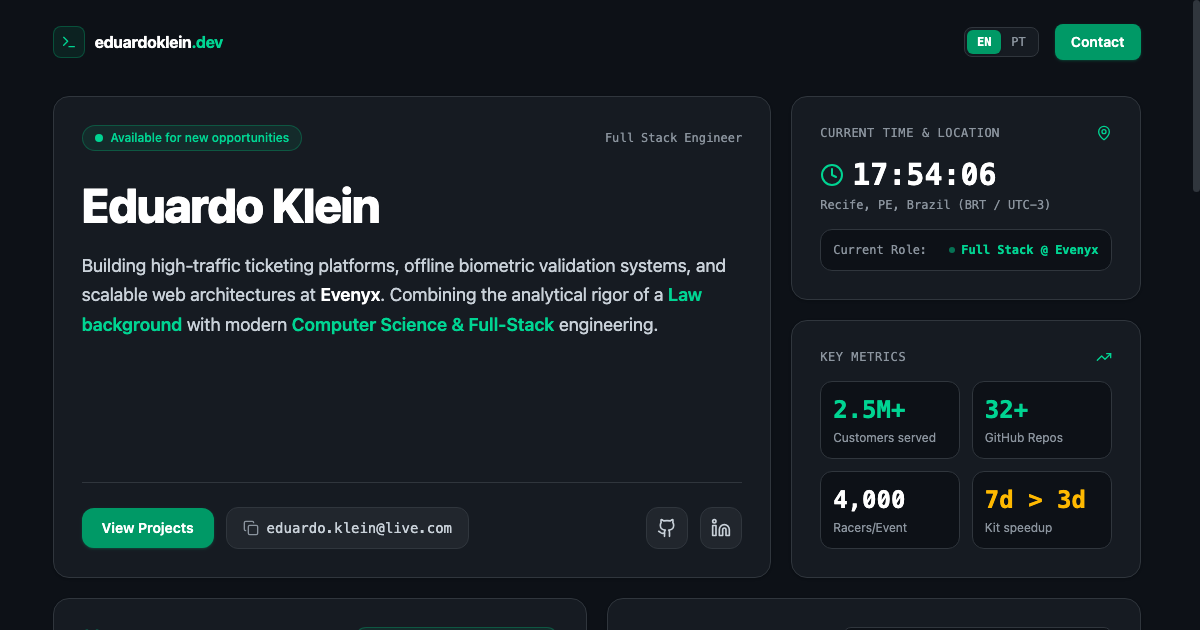
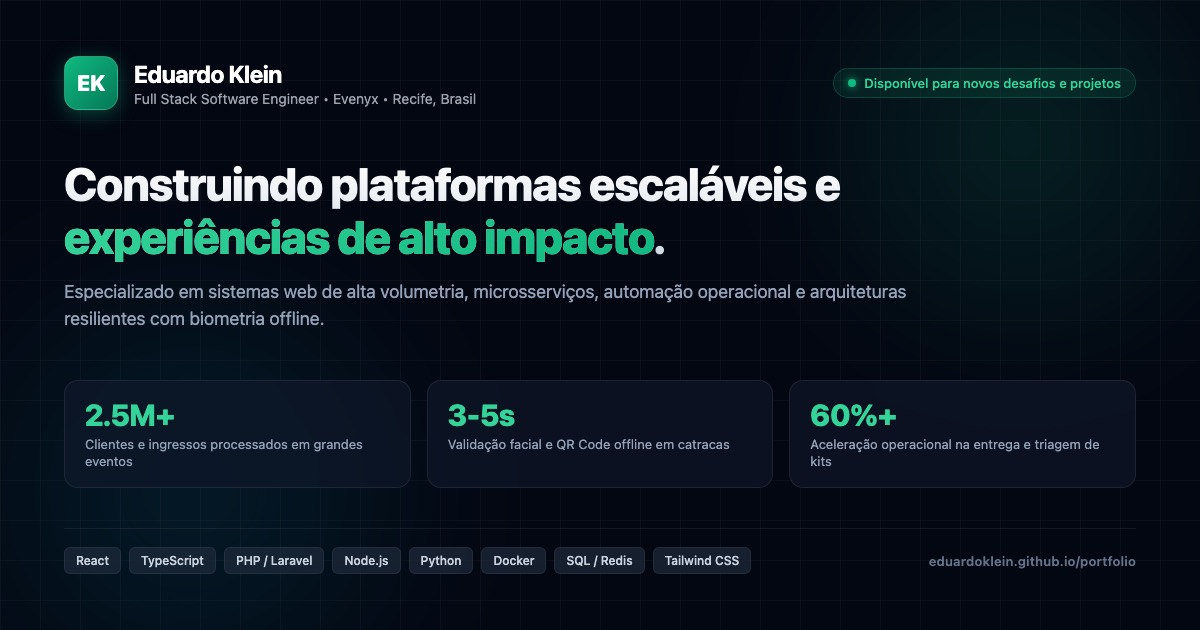
feat: novo card de preview 1200x630 (og:image) e bypass de cache

diff --git a/index.html b/index.html
@@ -2,31 +2,32 @@
 <html lang="en">
   <head>
     <meta charset="UTF-8" />
-    <link rel="icon" type="image/svg+xml" href="./favicon.svg?v=4" />
-    <link rel="icon" type="image/png" href="./favicon.png?v=4" />
-    <link rel="shortcut icon" href="./favicon.ico?v=4" />
-    <link rel="apple-touch-icon" href="./favicon.png?v=4" />
+    <link rel="icon" type="image/svg+xml" href="./favicon.svg?v=5" />
+    <link rel="icon" type="image/png" href="./favicon.png?v=5" />
+    <link rel="shortcut icon" href="./favicon.ico?v=5" />
+    <link rel="apple-touch-icon" href="./favicon.png?v=5" />
     <meta name="viewport" content="width=device-width, initial-scale=1.0" />
     <title>Eduardo Klein | Full Stack Software Engineer</title>
     <meta name="description" content="Full Stack Software Engineer specializing in high-traffic ticketing platforms, offline biometric architectures and modern web applications." />
     
-    <!-- Open Graph / Facebook / LinkedIn -->
+    <!-- Open Graph / Facebook / LinkedIn / WhatsApp -->
     <meta property="og:type" content="website" />
     <meta property="og:url" content="https://eduardoklein.github.io/portfolio/" />
     <meta property="og:title" content="Eduardo Klein | Full Stack Software Engineer" />
     <meta property="og:description" content="Building high-traffic ticketing platforms, offline biometric systems and scalable web architectures at Evenyx." />
-    <meta property="og:image" content="https://eduardoklein.github.io/portfolio/preview.png?v=3" />
-    <meta property="og:image:secure_url" content="https://eduardoklein.github.io/portfolio/preview.png?v=3" />
+    <meta property="og:image" content="https://eduardoklein.github.io/portfolio/preview-v2.png?v=20260916" />
+    <meta property="og:image:secure_url" content="https://eduardoklein.github.io/portfolio/preview-v2.png?v=20260916" />
     <meta property="og:image:type" content="image/png" />
     <meta property="og:image:width" content="1200" />
     <meta property="og:image:height" content="630" />
+    <meta property="og:image:alt" content="Eduardo Klein - Full Stack Software Engineer Portfolio" />
 
     <!-- Twitter -->
     <meta name="twitter:card" content="summary_large_image" />
     <meta name="twitter:url" content="https://eduardoklein.github.io/portfolio/" />
     <meta name="twitter:title" content="Eduardo Klein | Full Stack Software Engineer" />
     <meta name="twitter:description" content="Building high-traffic ticketing platforms, offline biometric systems and scalable web architectures at Evenyx." />
-    <meta name="twitter:image" content="https://eduardoklein.github.io/portfolio/preview.png?v=3" />
+    <meta name="twitter:image" content="https://eduardoklein.github.io/portfolio/preview-v2.png?v=20260916" />
   </head>
   <body>
     <div id="root"></div>
